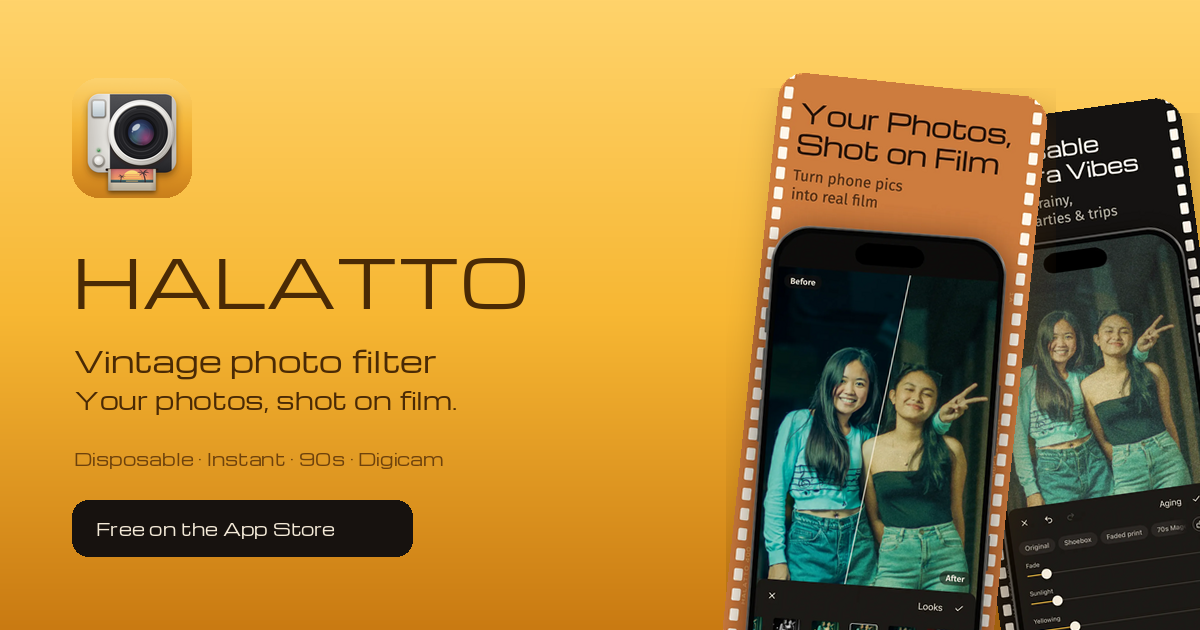
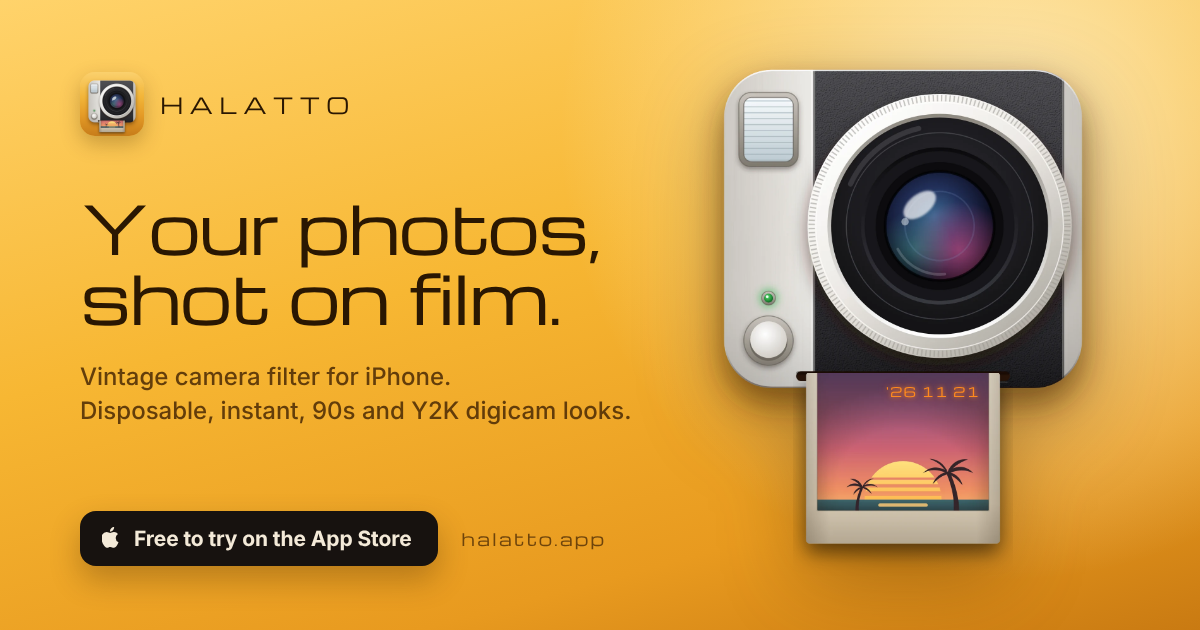
wip

diff --git a/build/og.html b/build/og.html
@@ -1,0 +1,100 @@
+<!DOCTYPE html>
+<html lang="en">
+<head>
+<meta charset="UTF-8" />
+<meta name="robots" content="noindex" />
+<title>Halatto – social preview (1200×630)</title>
+<!--
+  Source of /site_preview.png (og:image / twitter:image).
+  `npm run site:preview` screenshots this page at exactly 1200×630.
+  Keep it in sync with the hero: same palette, Michroma, the camera ejecting a print.
+-->
+<style>
+  @font-face { font-family: "Michroma"; src: url("/fonts/michroma-latin.woff") format("woff"); font-display: block; }
+  :root {
+    --ink: #17120f; --cocoa: #4a2a05; --deep: #2a1702;
+    --sun: #ffd36b; --mustard: #f7b733; --amber: #e89a1f; --toffee: #c97a12; --cream: #f4ead8; --date: #ff8a1e;
+    --wide: "Michroma", "Eurostile", sans-serif;
+    --body: -apple-system, BlinkMacSystemFont, "SF Pro Text", "Inter", "Segoe UI", "Helvetica Neue", Arial, sans-serif;
+  }
+  * { box-sizing: border-box; }
+  html, body { margin: 0; width: 1200px; height: 630px; overflow: hidden; }
+  body {
+    position: relative;
+    font-family: var(--body);
+    color: var(--cocoa);
+    background: linear-gradient(165deg, var(--sun) 0%, var(--mustard) 42%, var(--amber) 78%, var(--toffee) 100%);
+    -webkit-font-smoothing: antialiased;
+  }
+  /* soft light behind the camera, like the hero */
+  body::before {
+    content: ""; position: absolute; width: 900px; height: 900px; right: -260px; top: -320px;
+    background: radial-gradient(closest-side, rgba(255, 246, 214, .8), rgba(255, 211, 107, 0));
+  }
+  .copy { position: absolute; left: 80px; top: 72px; width: 600px; z-index: 2; }
+
+  .brand { display: flex; align-items: center; gap: 16px; }
+  .brand img { width: 64px; height: 64px; border-radius: 15px; box-shadow: 0 8px 20px rgba(74, 42, 5, .28); }
+  .brand span { font-family: var(--wide); font-size: 22px; letter-spacing: .28em; color: var(--deep); }
+
+  h1 {
+    margin: 56px 0 0;
+    font-family: var(--wide); font-weight: 400;
+    font-size: 66px; line-height: 1.06; letter-spacing: -.02em;
+    color: var(--deep);
+  }
+  .sub { margin: 28px 0 0; font-size: 24px; line-height: 1.42; font-weight: 500; color: rgba(74, 42, 5, .86); }
+
+  .foot { position: absolute; left: 80px; bottom: 64px; z-index: 2; display: flex; align-items: center; gap: 24px; }
+  .badge {
+    display: inline-flex; align-items: center; gap: 12px;
+    padding: 15px 26px 15px 22px; border-radius: 16px;
+    background: var(--ink); color: var(--cream);
+    font-size: 21px; font-weight: 700; letter-spacing: -.005em;
+    box-shadow: 0 14px 30px rgba(74, 42, 5, .32);
+  }
+  .badge svg { width: 20px; height: 24px; }
+  .url { font-family: var(--wide); font-size: 17px; letter-spacing: .12em; color: rgba(74, 42, 5, .78); }
+
+  /* Camera ejecting a print: same geometry as the site hero (.camera in style.css), frozen at the end of the animation */
+  .camera { position: absolute; z-index: 1; right: 64px; top: 34px; width: 466px; aspect-ratio: 984 / 1144; filter: drop-shadow(0 26px 40px rgba(74, 42, 5, .38)); }
+  .camera-body { position: absolute; left: 0; top: 0; width: 100%; height: 78.6713%; z-index: 1; }
+  .camera-slot { position: absolute; left: 0; width: 100%; top: 62.5874%; bottom: 0; overflow: hidden; z-index: 2; }
+  .camera-print { position: absolute; left: 26.4228%; width: 47.1545%; top: -7.4766%; height: 107.4766%; }
+  .camera-print img { position: absolute; inset: 0; width: 100%; height: 100%; }
+  .camera-date {
+    position: absolute; right: 15%; top: 11%;
+    font-family: var(--wide); font-size: 13px; letter-spacing: .08em; color: var(--date);
+    text-shadow: 0 0 4px rgba(255, 138, 30, .9), 0 0 10px rgba(255, 90, 30, .5);
+  }
+</style>
+</head>
+<body>
+  <div class="copy">
+    <div class="brand">
+      <img src="/img/appstore/app-icon-1024.png" alt="" width="64" height="64" />
+      <span>HALATTO</span>
+    </div>
+    <h1>Your photos,<br />shot on film.</h1>
+    <p class="sub">Vintage camera filter for iPhone.<br />Disposable, instant, 90s and Y2K digicam looks.</p>
+  </div>
+
+  <div class="foot">
+    <span class="badge">
+      <svg viewBox="14 8 14 26" aria-hidden="true"><path fill="currentColor" d="M24.99671,19.88935a5.14625,5.14625,0,0,1,2.45058-4.31771,5.26776,5.26776,0,0,0-4.15039-2.24376c-1.74624-.1833-3.43913,1.04492-4.329,1.04492-.90707,0-2.27713-1.02672-3.75247-.99637a5.52735,5.52735,0,0,0-4.65137,2.8367c-2.01111,3.482-.511,8.59939,1.41551,11.414.96388,1.37823,2.09037,2.91774,3.56438,2.86315,1.4424-.05983,1.98111-.91977,3.7222-.91977,1.72494,0,2.23035.91977,3.73427.88506,1.54777-.02512,2.52292-1.38435,3.453-2.77563a11.39931,11.39931,0,0,0,1.579-3.21589A4.97284,4.97284,0,0,1,24.99671,19.88935Z"/><path fill="currentColor" d="M22.15611,11.47681a5.06687,5.06687,0,0,0,1.159-3.62989,5.15524,5.15524,0,0,0-3.33555,1.72582,4.82131,4.82131,0,0,0-1.18934,3.4955A4.26259,4.26259,0,0,0,22.15611,11.47681Z"/></svg>
+      Free to try on the App Store
+    </span>
+    <span class="url">halatto.app</span>
+  </div>
+
+  <div class="camera" aria-hidden="true">
+    <img class="camera-body" src="/img/brand/camera.webp" alt="" />
+    <div class="camera-slot">
+      <div class="camera-print">
+        <img src="/img/brand/print.webp" alt="" />
+        <span class="camera-date">'26 11 21</span>
+      </div>
+    </div>
+  </div>
+</body>
+</html>

diff --git a/build/preview.js b/build/preview.js
@@ -188,9 +188,15 @@ function startLocalServer() {
     return new Promise((resolve) => server.listen(0, '127.0.0.1', () => resolve(server)));
 }
 
+// `build/og.html` is a hand-made 1200×630 layout for the default language's og:image.
+// It is always shot from the local server, so it does not depend on the live site.
+const OG_PAGE = path.resolve(__dirname, 'og.html');
+
 (async () => {
-    const server = LOCAL ? await startLocalServer() : null;
-    const base = server ? `http://127.0.0.1:${server.address().port}/` : null;
+    const needServer = LOCAL || fs.existsSync(OG_PAGE);
+    const server = needServer ? await startLocalServer() : null;
+    const localBase = server ? `http://127.0.0.1:${server.address().port}/` : null;
+    const base = LOCAL ? localBase : null;
     for (let item of URLS) {
         const screenshotPath = DEFAULT_LANGUAGE === item.code
             ? path.resolve(__dirname, '..', 'site_preview.png')
@@ -200,7 +206,9 @@ function startLocalServer() {
             screenshotPath,
             width: 1200,
             height: 630,
-            url: base ? base + new URL(item.url).pathname.replace(/^\//, '') : item.url
+            url: DEFAULT_LANGUAGE === item.code && fs.existsSync(OG_PAGE)
+                ? `${localBase}build/og.html`
+                : base ? base + new URL(item.url).pathname.replace(/^\//, '') : item.url
         });
 
         console.log(`\nOptimizing image: ${screenshotPath}`);

diff --git a/guides/apply-the-same-filter-to-multiple-photos-on-iphone/index.html b/guides/apply-the-same-filter-to-multiple-photos-on-iphone/index.html
@@ -78,7 +78,7 @@
 
     <link
       rel="stylesheet"
-      href="/style.css?v=1795290588371"
+      href="/style.css?v=1795295956084"
     />
     <script>document.documentElement.classList.add('js');</script>
     <!-- dev-links: on localhost / LAN dev servers, point absolute site links at the local copy (no effect in production) -->
@@ -460,7 +460,7 @@
       {"@context":"https://schema.org","@type":"BreadcrumbList","itemListElement":[{"@type":"ListItem","position":1,"name":"Home","item":"https://halatto.app/"},{"@type":"ListItem","position":2,"name":"Guides","item":"https://halatto.app/guides/"},{"@type":"ListItem","position":3,"name":"How to apply the same filter to multiple photos on iPhone","item":"https://halatto.app/guides/apply-the-same-filter-to-multiple-photos-on-iphone/"}]}
     </script>
 
-    <script src="/site.js?v=1795290588371" defer></script>
+    <script src="/site.js?v=1795295956084" defer></script>
 <!-- Analytics: paste the counter snippet for halatto.app here. Empty = no analytics. -->
 <!-- Yandex.Metrika counter -->
 <script type="text/javascript">

diff --git a/guides/make-iphone-photos-look-like-film-without-an-app/index.html b/guides/make-iphone-photos-look-like-film-without-an-app/index.html
@@ -78,7 +78,7 @@
 
     <link
       rel="stylesheet"
-      href="/style.css?v=1795290588371"
+      href="/style.css?v=1795295956084"
     />
     <script>document.documentElement.classList.add('js');</script>
     <!-- dev-links: on localhost / LAN dev servers, point absolute site links at the local copy (no effect in production) -->
@@ -511,7 +511,7 @@
       {"@context":"https://schema.org","@type":"BreadcrumbList","itemListElement":[{"@type":"ListItem","position":1,"name":"Home","item":"https://halatto.app/"},{"@type":"ListItem","position":2,"name":"Guides","item":"https://halatto.app/guides/"},{"@type":"ListItem","position":3,"name":"How to make iPhone photos look like film without an app","item":"https://halatto.app/guides/make-iphone-photos-look-like-film-without-an-app/"}]}
     </script>
 
-    <script src="/site.js?v=1795290588371" defer></script>
+    <script src="/site.js?v=1795295956084" defer></script>
 <!-- Analytics: paste the counter snippet for halatto.app here. Empty = no analytics. -->
 <!-- Yandex.Metrika counter -->
 <script type="text/javascript">

diff --git a/guides/add-date-stamp-to-photo-on-iphone/index.html b/guides/add-date-stamp-to-photo-on-iphone/index.html
@@ -78,7 +78,7 @@
 
     <link
       rel="stylesheet"
-      href="/style.css?v=1795290588371"
+      href="/style.css?v=1795295956084"
     />
     <script>document.documentElement.classList.add('js');</script>
     <!-- dev-links: on localhost / LAN dev servers, point absolute site links at the local copy (no effect in production) -->
@@ -463,7 +463,7 @@
       {"@context":"https://schema.org","@type":"BreadcrumbList","itemListElement":[{"@type":"ListItem","position":1,"name":"Home","item":"https://halatto.app/"},{"@type":"ListItem","position":2,"name":"Guides","item":"https://halatto.app/guides/"},{"@type":"ListItem","position":3,"name":"How to add a date stamp to a photo on iPhone, even one already taken","item":"https://halatto.app/guides/add-date-stamp-to-photo-on-iphone/"}]}
     </script>
 
-    <script src="/site.js?v=1795290588371" defer></script>
+    <script src="/site.js?v=1795295956084" defer></script>
 <!-- Analytics: paste the counter snippet for halatto.app here. Empty = no analytics. -->
 <!-- Yandex.Metrika counter -->
 <script type="text/javascript">

diff --git a/guides/night-film-halation-glow-on-iphone/index.html b/guides/night-film-halation-glow-on-iphone/index.html
@@ -78,7 +78,7 @@
 
     <link
       rel="stylesheet"
-      href="/style.css?v=1795290588371"
+      href="/style.css?v=1795295956084"
     />
     <script>document.documentElement.classList.add('js');</script>
     <!-- dev-links: on localhost / LAN dev servers, point absolute site links at the local copy (no effect in production) -->
@@ -462,7 +462,7 @@
       {"@context":"https://schema.org","@type":"BreadcrumbList","itemListElement":[{"@type":"ListItem","position":1,"name":"Home","item":"https://halatto.app/"},{"@type":"ListItem","position":2,"name":"Guides","item":"https://halatto.app/guides/"},{"@type":"ListItem","position":3,"name":"Halation effect: what it is and how to get the film glow on iPhone","item":"https://halatto.app/guides/night-film-halation-glow-on-iphone/"}]}
     </script>
 
-    <script src="/site.js?v=1795290588371" defer></script>
+    <script src="/site.js?v=1795295956084" defer></script>
 <!-- Analytics: paste the counter snippet for halatto.app here. Empty = no analytics. -->
 <!-- Yandex.Metrika counter -->
 <script type="text/javascript">

diff --git a/guides/make-a-before-and-after-photo-video-on-iphone/index.html b/guides/make-a-before-and-after-photo-video-on-iphone/index.html
@@ -78,7 +78,7 @@
 
     <link
       rel="stylesheet"
-      href="/style.css?v=1795290588371"
+      href="/style.css?v=1795295956084"
     />
     <script>document.documentElement.classList.add('js');</script>
     <!-- dev-links: on localhost / LAN dev servers, point absolute site links at the local copy (no effect in production) -->
@@ -460,7 +460,7 @@
       {"@context":"https://schema.org","@type":"BreadcrumbList","itemListElement":[{"@type":"ListItem","position":1,"name":"Home","item":"https://halatto.app/"},{"@type":"ListItem","position":2,"name":"Guides","item":"https://halatto.app/guides/"},{"@type":"ListItem","position":3,"name":"How to make a before and after photo video on iPhone","item":"https://halatto.app/guides/make-a-before-and-after-photo-video-on-iphone/"}]}
     </script>
 
-    <script src="/site.js?v=1795290588371" defer></script>
+    <script src="/site.js?v=1795295956084" defer></script>
 <!-- Analytics: paste the counter snippet for halatto.app here. Empty = no analytics. -->
 <!-- Yandex.Metrika counter -->
 <script type="text/javascript">

diff --git a/guides/disposable-camera-filter-on-iphone/index.html b/guides/disposable-camera-filter-on-iphone/index.html
@@ -78,7 +78,7 @@
 
     <link
       rel="stylesheet"
-      href="/style.css?v=1795290588371"
+      href="/style.css?v=1795295956084"
     />
     <script>document.documentElement.classList.add('js');</script>
     <!-- dev-links: on localhost / LAN dev servers, point absolute site links at the local copy (no effect in production) -->
@@ -483,7 +483,7 @@
       {"@context":"https://schema.org","@type":"BreadcrumbList","itemListElement":[{"@type":"ListItem","position":1,"name":"Home","item":"https://halatto.app/"},{"@type":"ListItem","position":2,"name":"Guides","item":"https://halatto.app/guides/"},{"@type":"ListItem","position":3,"name":"Disposable camera filter for iPhone photos you already took","item":"https://halatto.app/guides/disposable-camera-filter-on-iphone/"}]}
     </script>
 
-    <script src="/site.js?v=1795290588371" defer></script>
+    <script src="/site.js?v=1795295956084" defer></script>
 <!-- Analytics: paste the counter snippet for halatto.app here. Empty = no analytics. -->
 <!-- Yandex.Metrika counter -->
 <script type="text/javascript">

diff --git a/guides/digicam-filter-y2k-photos-on-iphone/index.html b/guides/digicam-filter-y2k-photos-on-iphone/index.html
@@ -78,7 +78,7 @@
 
     <link
       rel="stylesheet"
-      href="/style.css?v=1795290588371"
+      href="/style.css?v=1795295956084"
     />
     <script>document.documentElement.classList.add('js');</script>
     <!-- dev-links: on localhost / LAN dev servers, point absolute site links at the local copy (no effect in production) -->
@@ -486,7 +486,7 @@
       {"@context":"https://schema.org","@type":"BreadcrumbList","itemListElement":[{"@type":"ListItem","position":1,"name":"Home","item":"https://halatto.app/"},{"@type":"ListItem","position":2,"name":"Guides","item":"https://halatto.app/guides/"},{"@type":"ListItem","position":3,"name":"Digital camera filter: the old Y2K digicam look on iPhone","item":"https://halatto.app/guides/digicam-filter-y2k-photos-on-iphone/"}]}
     </script>
 
-    <script src="/site.js?v=1795290588371" defer></script>
+    <script src="/site.js?v=1795295956084" defer></script>
 <!-- Analytics: paste the counter snippet for halatto.app here. Empty = no analytics. -->
 <!-- Yandex.Metrika counter -->
 <script type="text/javascript">

diff --git a/guides/add-light-leaks-to-a-photo-on-iphone/index.html b/guides/add-light-leaks-to-a-photo-on-iphone/index.html
@@ -78,7 +78,7 @@
 
     <link
       rel="stylesheet"
-      href="/style.css?v=1795290588371"
+      href="/style.css?v=1795295956084"
     />
     <script>document.documentElement.classList.add('js');</script>
     <!-- dev-links: on localhost / LAN dev servers, point absolute site links at the local copy (no effect in production) -->
@@ -471,7 +471,7 @@
       {"@context":"https://schema.org","@type":"BreadcrumbList","itemListElement":[{"@type":"ListItem","position":1,"name":"Home","item":"https://halatto.app/"},{"@type":"ListItem","position":2,"name":"Guides","item":"https://halatto.app/guides/"},{"@type":"ListItem","position":3,"name":"How to add a light leak effect to a photo on iPhone","item":"https://halatto.app/guides/add-light-leaks-to-a-photo-on-iphone/"}]}
     </script>
 
-    <script src="/site.js?v=1795290588371" defer></script>
+    <script src="/site.js?v=1795295956084" defer></script>
 <!-- Analytics: paste the counter snippet for halatto.app here. Empty = no analytics. -->
 <!-- Yandex.Metrika counter -->
 <script type="text/javascript">

diff --git a/guides/apps-like-dazz-cam-for-iphone/index.html b/guides/apps-like-dazz-cam-for-iphone/index.html
@@ -78,7 +78,7 @@
 
     <link
       rel="stylesheet"
-      href="/style.css?v=1795290588371"
+      href="/style.css?v=1795295956084"
     />
     <script>document.documentElement.classList.add('js');</script>
     <!-- dev-links: on localhost / LAN dev servers, point absolute site links at the local copy (no effect in production) -->
@@ -512,7 +512,7 @@
       {"@context":"https://schema.org","@type":"BreadcrumbList","itemListElement":[{"@type":"ListItem","position":1,"name":"Home","item":"https://halatto.app/"},{"@type":"ListItem","position":2,"name":"Guides","item":"https://halatto.app/guides/"},{"@type":"ListItem","position":3,"name":"Apps like Dazz Cam for iPhone, for photos you already took","item":"https://halatto.app/guides/apps-like-dazz-cam-for-iphone/"}]}
     </script>
 
-    <script src="/site.js?v=1795290588371" defer></script>
+    <script src="/site.js?v=1795295956084" defer></script>
 <!-- Analytics: paste the counter snippet for halatto.app here. Empty = no analytics. -->
 <!-- Yandex.Metrika counter -->
 <script type="text/javascript">

diff --git a/guides/instant-photo-effect-on-iphone/index.html b/guides/instant-photo-effect-on-iphone/index.html
@@ -78,7 +78,7 @@
 
     <link
       rel="stylesheet"
-      href="/style.css?v=1795290588371"
+      href="/style.css?v=1795295956084"
     />
     <script>document.documentElement.classList.add('js');</script>
     <!-- dev-links: on localhost / LAN dev servers, point absolute site links at the local copy (no effect in production) -->
@@ -468,7 +468,7 @@
       {"@context":"https://schema.org","@type":"BreadcrumbList","itemListElement":[{"@type":"ListItem","position":1,"name":"Home","item":"https://halatto.app/"},{"@type":"ListItem","position":2,"name":"Guides","item":"https://halatto.app/guides/"},{"@type":"ListItem","position":3,"name":"Polaroid-style filter for iPhone: the instant photo look","item":"https://halatto.app/guides/instant-photo-effect-on-iphone/"}]}
     </script>
 
-    <script src="/site.js?v=1795290588371" defer></script>
+    <script src="/site.js?v=1795295956084" defer></script>
 <!-- Analytics: paste the counter snippet for halatto.app here. Empty = no analytics. -->
 <!-- Yandex.Metrika counter -->
 <script type="text/javascript">
